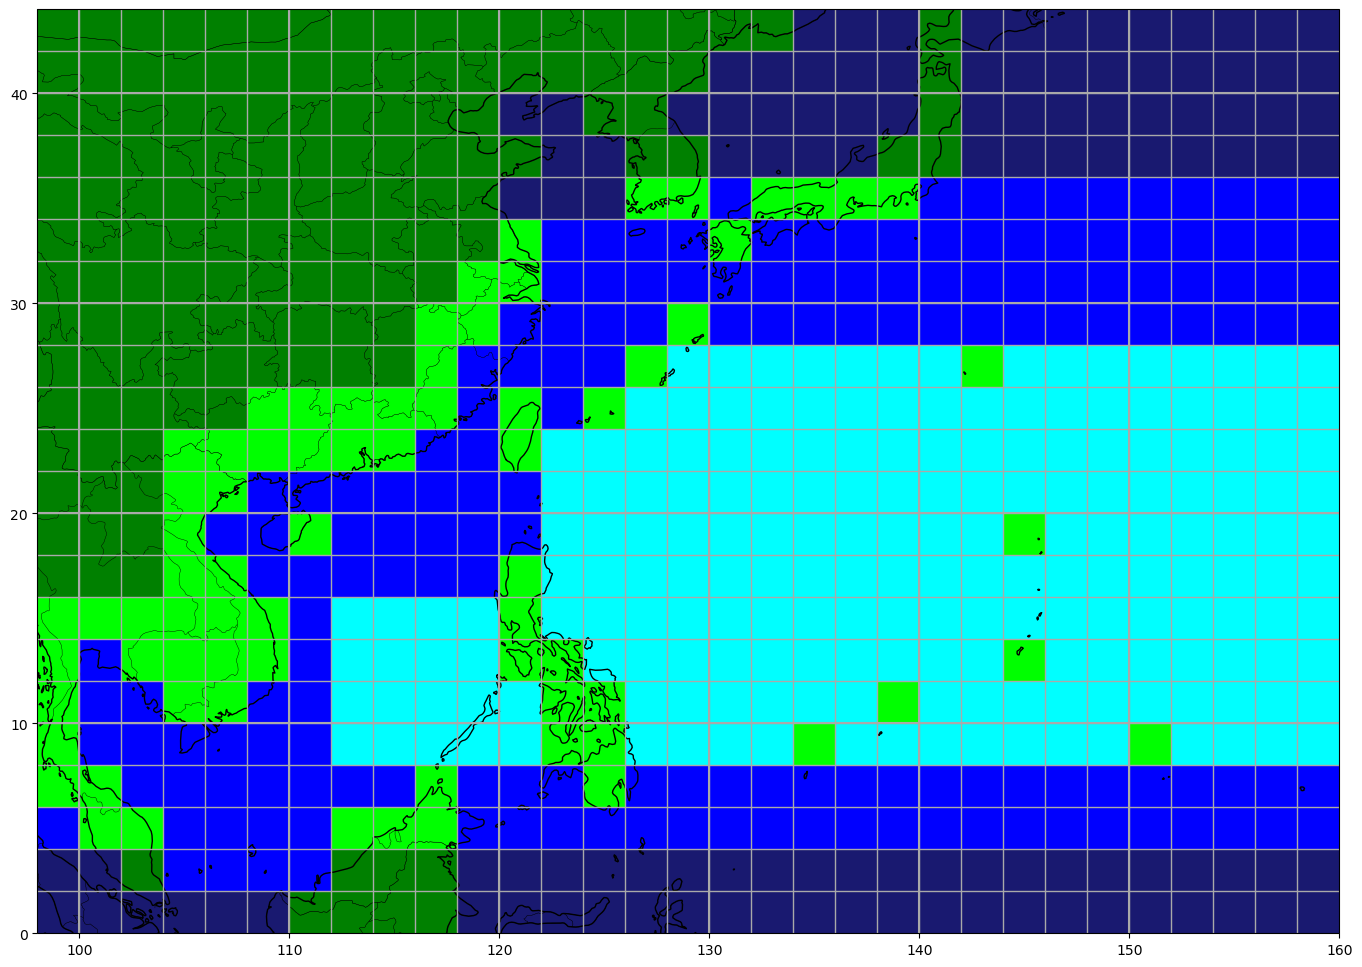
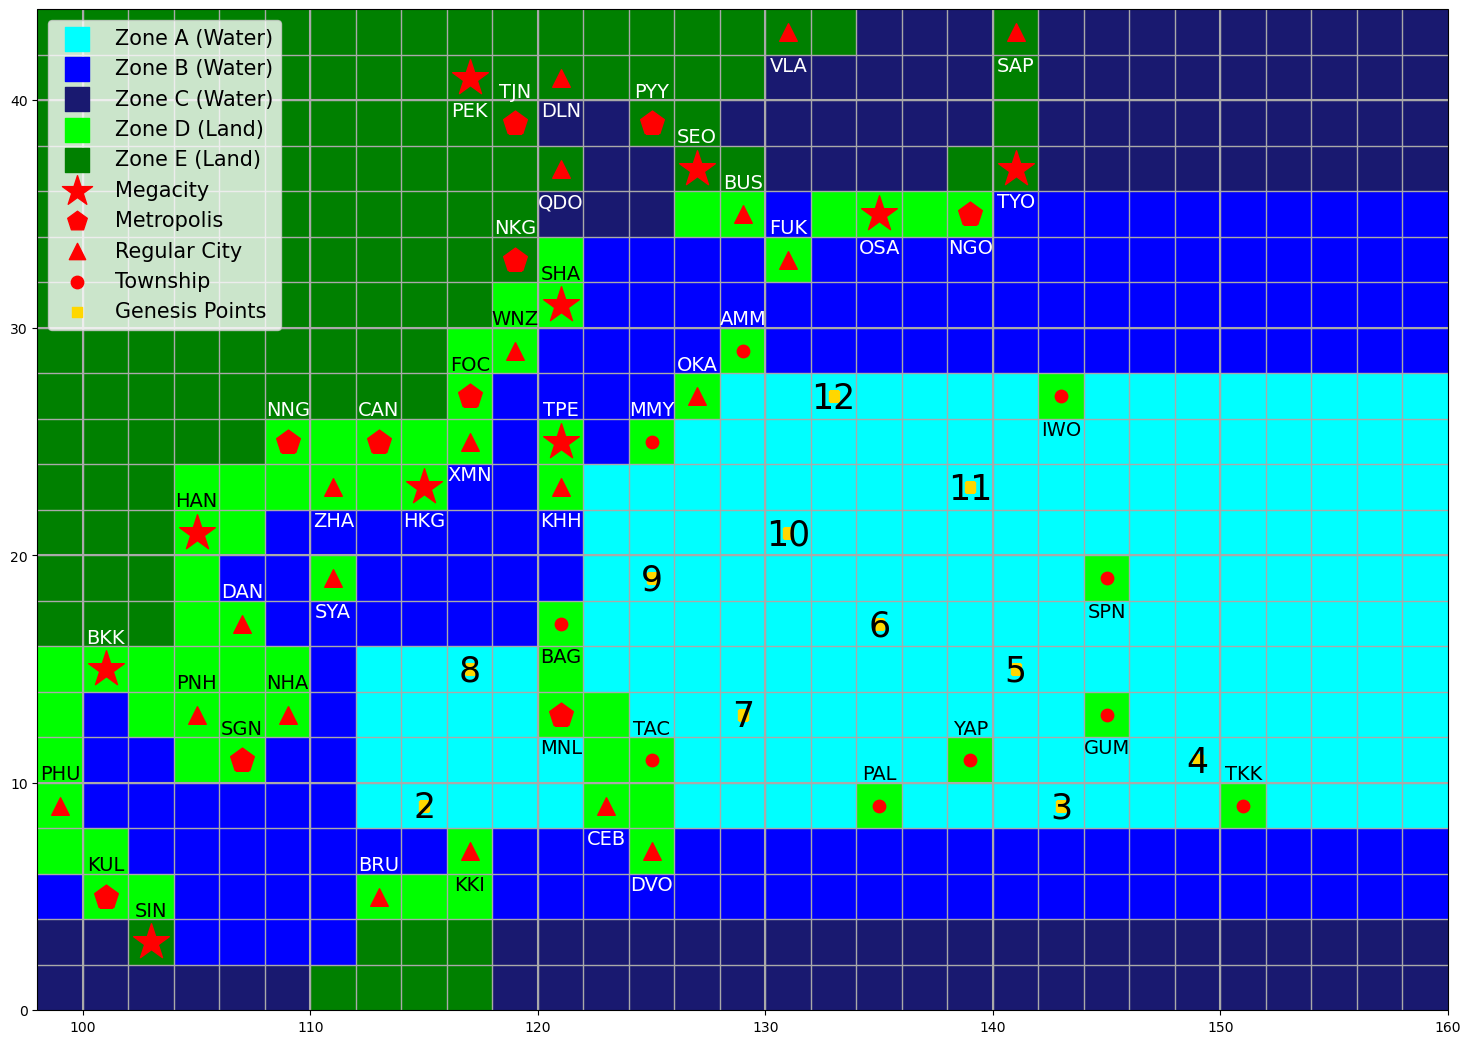
Add game board and place pawns

diff --git a/The_Ultimate_Storm_V2.1/templates/index.html b/The_Ultimate_Storm_V2.1/templates/index.html
@@ -1,6 +1,5 @@
 <!DOCTYPE html>
 
-
 <html>
 <head>
     <title>The Ultimate Storm</title>
@@ -10,7 +9,6 @@
 
     <h1>The Ultimate Storm</h1>
     <h2>Game Setup</h2>
-
 
 
     <!-- Enter player names and select colours -->
@@ -24,7 +22,7 @@
             <option value="4">4 Players</option>
             <option value="5">5 Players</option>
         </select>
-        <br><br>
+        <br>
 
         <!-- Player 1 -->
         <div id="player_1">
@@ -37,9 +35,9 @@
             <select name="player_1_colour">
                 <option value="limegreen">Green</option>
                 <option value="deepskyblue">Blue</option>
-                <option value="red">Red</option>
+                <option value="yellow">Yellow</option>
                 <option value="darkorange">Orange</option>
-                <option value="gold">Yellow</option>
+                <option value="red">Red</option>
                 <option value="magenta">Pink</option>
                 <option value="darkviolet">Purple</option>
                 <option value="white">White</option>
@@ -57,9 +55,9 @@
             <select name="player_2_colour">
                 <option value="limegreen">Green</option>
                 <option value="deepskyblue">Blue</option>
-                <option value="red">Red</option>
+                <option value="yellow">Yellow</option>
                 <option value="darkorange">Orange</option>
-                <option value="gold">Yellow</option>
+                <option value="red">Red</option>
                 <option value="magenta">Pink</option>
                 <option value="darkviolet">Purple</option>
                 <option value="white">White</option>
@@ -77,9 +75,9 @@
             <select name="player_3_colour">
                 <option value="limegreen">Green</option>
                 <option value="deepskyblue">Blue</option>
-                <option value="red">Red</option>
+                <option value="yellow">Yellow</option>
                 <option value="darkorange">Orange</option>
-                <option value="gold">Yellow</option>
+                <option value="red">Red</option>
                 <option value="magenta">Pink</option>
                 <option value="darkviolet">Purple</option>
                 <option value="white">White</option>
@@ -97,9 +95,9 @@
             <select name="player_4_colour">
                 <option value="limegreen">Green</option>
                 <option value="deepskyblue">Blue</option>
-                <option value="red">Red</option>
+                <option value="yellow">Yellow</option>
                 <option value="darkorange">Orange</option>
-                <option value="gold">Yellow</option>
+                <option value="red">Red</option>
                 <option value="magenta">Pink</option>
                 <option value="darkviolet">Purple</option>
                 <option value="white">White</option>
@@ -117,9 +115,9 @@
             <select name="player_5_colour">
                 <option value="limegreen">Green</option>
                 <option value="deepskyblue">Blue</option>
-                <option value="red">Red</option>
+                <option value="yellow">Yellow</option>
                 <option value="darkorange">Orange</option>
-                <option value="gold">Yellow</option>
+                <option value="red">Red</option>
                 <option value="magenta">Pink</option>
                 <option value="darkviolet">Purple</option>
                 <option value="white">White</option>
@@ -128,7 +126,6 @@
         <br>
         <button type="submit">Start Game</button>
     </form>
-
 
 
     <!-- Select number of players -->

diff --git a/The_Ultimate_Storm_V2.1/templates/game.html b/The_Ultimate_Storm_V2.1/templates/game.html
@@ -10,15 +10,29 @@
     <h1>The Ultimate Storm</h1>
 
     <!-- Show game board -->
-    <img
-    class="game-board"
-    src="{{ url_for('static', filename='images/Game_Map_Pacific.png') }}"
-    alt="Game Board"
-    >
+    <div class="board-container">
+        <img
+            class="game-board"
+            src="{{ url_for('static', filename='images/Game_Map_Pacific.png') }}"
+            alt="Game Board"
+        >
+        {% for Pawn in Pawns %}
+            <div
+                class="pawn"
+                style="left: {{ Pawn['X'] }}%; top: {{ Pawn['Y'] }}%; background-color: {{ Pawn['Colour'] }}"
+                title="{{ Pawn['Player'] }}"
+            ></div>
+        {% endfor %}
+    </div>
 
     <style>
-    .game-board {width: 100%; height: auto;}
+    .board-container {position: relative; width: 80vw; max-width: 1200px; margin: 20px auto}
+    .game-board {display: block; width: 100%; height: auto}
+    .pawn {position: absolute; width: 18px; height: 18px; border-radius: 50%; border: 3px solid black; 
+        outline: 4px solid white; transform: translate(-50%, -50%); z-index: 5}
     </style>
+
+
 
     <!-- Show round and current ocean ACE -->
     <h2>

diff --git a/The_Ultimate_Storm_V2.1/game.py b/The_Ultimate_Storm_V2.1/game.py
@@ -77,38 +77,6 @@ def Dice(n):
     Result = sum(Rolls)
     return (Result)
 
-# Plot current board
-def Plot_Current_Board(Player_Data, Show):
-    #Plot_Board(Cities_DF, Genesis_DF, Lon_Grid, Lat_Grid, Map_Grid, C_Map)
-    Position_Groups = {}
-    for Player in Player_Data:
-        Position = (Player_Data[Player]["Lon"], Player_Data[Player]["Lat"])
-        if Position not in Position_Groups:
-            Position_Groups[Position] = []
-        Position_Groups[Position].append(Player)
-
-    # Plot pawns
-    for Position, Players in Position_Groups.items():
-        Lon, Lat = Position
-        # No overlap
-        if len(Players) == 1:
-            Player = Players[0]
-            Place_Pawn(Lon, Lat, Player_Data[Player]["Colour"])
-        # Multiple players in same gridbox
-        else:
-            Offsets = [(0.25, 0.25), (-0.25, -0.25), (0.25, -0.25), (-0.25, 0.25)]
-            for i, Player in enumerate(Players):
-                Lon_Offset, Lat_Offset = Offsets[i]
-                Place_Pawn(Lon + Lon_Offset, Lat + Lat_Offset, Player_Data[Player]["Colour"])
-    if Show == True:
-        plt.show()
-
-# Place pawn on board
-def Place_Pawn(Lon, Lat, Colour):
-    plt.scatter(Lon, Lat, s=320, c=Colour, edgecolors='black', linewidths=2.8, zorder=5)
-    # Add halo around pawn
-    plt.scatter(Lon, Lat, s=620, c='white', edgecolors='black', linewidths=1.8, zorder=4)
-
 # Shuffle cards
 def Shuffle_Cards(Cards):
     # Build full deck
@@ -161,7 +129,7 @@ def Save_State(Player_Data, Game_State, Player_Data_History, Game_State_History)
 
 
 
-## Game Setup
+## Setup Game
 def Setup_Game(n_Players, Player_Names, Player_Colours):
     # Assign genesis points and decide play order
     Play_Order, Player_Data = Assign_Genesis_Points(Player_Names, Player_Colours, Genesis_DF, Map_DF)
@@ -207,3 +175,50 @@ def Setup_Game(n_Players, Player_Names, Player_Colours):
     Game_State_History = []
     Save_State(Player_Data, Game_State, Player_Data_History, Game_State_History)
     return (Player_Data, Game_State, Player_Data_History, Game_State_History)
+
+
+
+## Setup Pawns
+
+# Get pawns position
+def Get_Pawn_Positions(Player_Data):
+    Position_Groups = {}
+    for Player in Player_Data:
+        Position = (Player_Data[Player]["Lon"], Player_Data[Player]["Lat"])
+        if Position not in Position_Groups:
+            Position_Groups[Position] = []
+        Position_Groups[Position].append(Player)
+
+    Pawns = []
+    for Position, Players in Position_Groups.items():
+        Lon, Lat = Position
+        # One player in gridbox
+        if len(Players) == 1:
+            Player = Players[0]
+            X, Y = Board_Position(Lon, Lat)
+            Pawns.append({"Player": Player, "X": X, "Y": Y, "Colour": Player_Data[Player]["Colour"]})
+
+        # Multiple players in same gridbox
+        else:
+            Offsets = [(0.25, 0.25), (-0.25, -0.25), (0.25, -0.25), (-0.25, 0.25), (0, 0)]
+            for i, Player in enumerate(Players):
+                Lon_Offset, Lat_Offset = Offsets[i]
+                X, Y = Board_Position(Lon + Lon_Offset, Lat + Lat_Offset)
+                Pawns.append({"Player": Player, "X": X, "Y": Y, "Colour": Player_Data[Player]["Colour"]})
+    return (Pawns)
+
+# Calculate pawns position on board
+def Board_Position(Lon, Lat):
+    Min_Lon = 98
+    Max_Lon = 160
+    Min_Lat = 0
+    Max_Lat = 44
+    Left = 2.5
+    Right = 98.5
+    Top = 1.0
+    Bottom = 96.7
+    Lon_Frac = ((Lon - Min_Lon) / (Max_Lon - Min_Lon))
+    Lat_Frac = ((Max_Lat - Lat) / (Max_Lat - Min_Lat))
+    X = Left + Lon_Frac * (Right - Left)
+    Y = Top + Lat_Frac * (Bottom - Top)
+    return (X, Y)

diff --git a/The_Ultimate_Storm_V2.1/app.py b/The_Ultimate_Storm_V2.1/app.py
@@ -1,5 +1,5 @@
 from flask import Flask, render_template, request
-from game import Setup_Game
+from game import Setup_Game, Get_Pawn_Positions
 
 app = Flask(__name__)
 Player_Data = None
@@ -43,17 +43,13 @@ def Start_Game():
     # Setup game
     (Player_Data, Game_State, Player_Data_History, Game_State_History) = Setup_Game(n_Players, Player_Names, Player_Colours)
 
+    # Setup pawns
+    Pawns = Get_Pawn_Positions(Player_Data)
+
     # Display game
-    return render_template("game.html", Player_Data=Player_Data, Game_State=Game_State)
-
-
-# Update ACE
-@app.route("/test_ace", methods=["POST"])
-def Test_ACE():
-    Game_State["Ocean ACE"] -= 50
-    return render_template("game.html", Game_State=Game_State)
+    return render_template("game.html", Player_Data=Player_Data, Game_State=Game_State, Pawns=Pawns)
 
 
 
 if __name__ == "__main__":
-    app.run(debug=True)
+    app.run(debug=True, port=5000)
